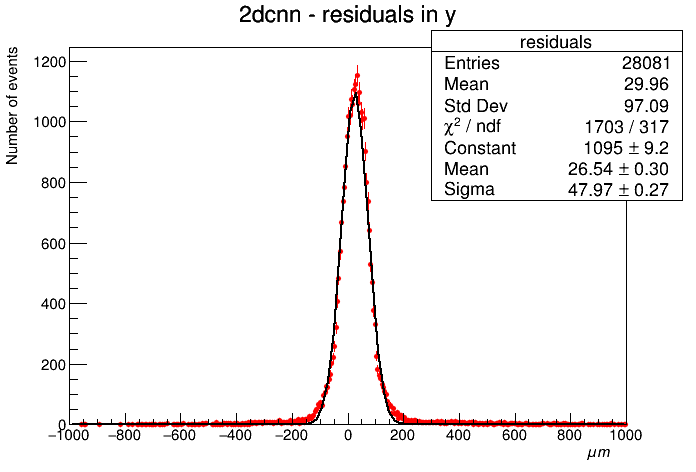
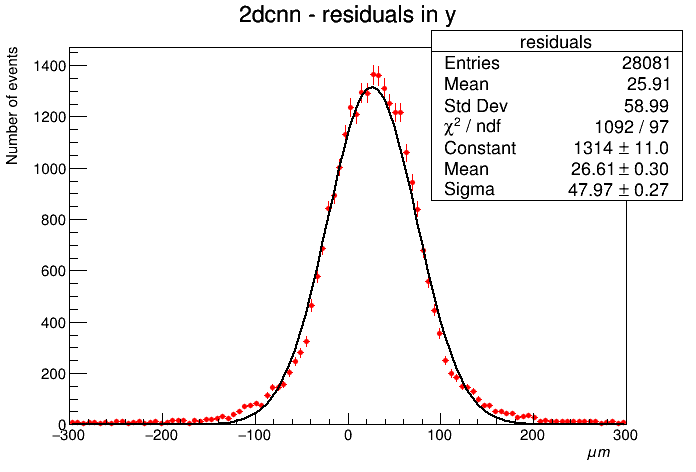
decreasing axis range for gbo

diff --git a/code/plot_hist.py b/code/plot_hist.py
@@ -68,7 +68,7 @@ def plot_residual(residuals,label,algo):
 
 def plot_root(residuals,label,algo):
 
-	res = ROOT.TH1F("residuals","%s %s"%(algo,label),400,-1000,1000)
+	res = ROOT.TH1F("residuals","%s %s"%(algo,label),100,-300,300)
 	res.Sumw2() # statistical uncertainties to be calculated using the sum of weights squared
 	'''
 	Once the histogram has been filled, we want to make sure that it doesnt disappear. By default, histograms
